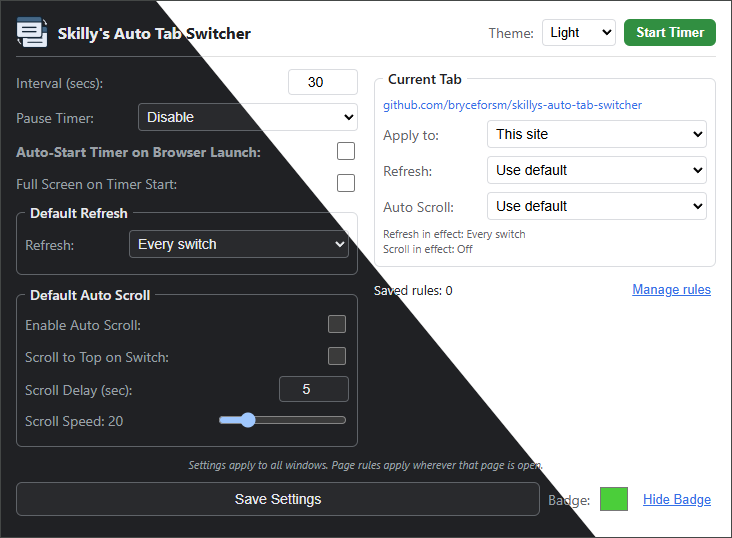
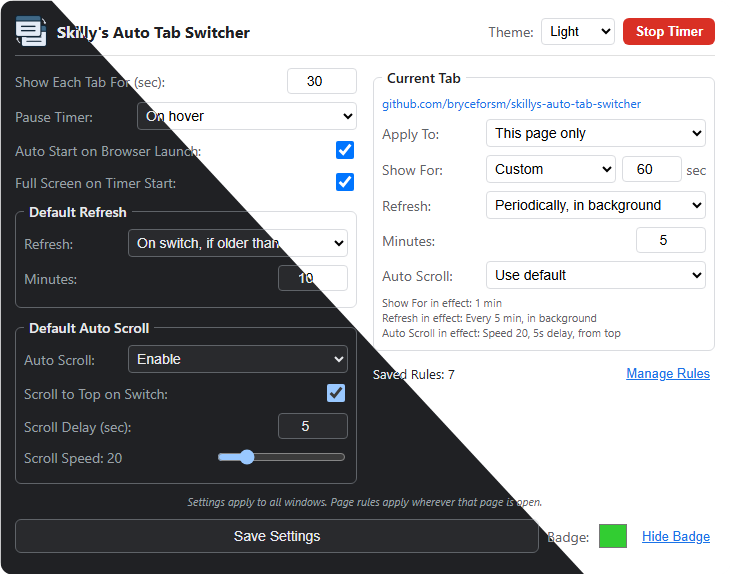
Add screenshot generation script and update README for UI changes

diff --git a/.github/skills/store-screenshots/assets/mock.js b/.github/skills/store-screenshots/assets/mock.js
@@ -1,0 +1,54 @@
+// Stands in for the chrome.* APIs so the extension pages render with sample data outside the extension.
+(() => {
+    const params = new URLSearchParams(location.search);
+    const store = {
+        switchInterval: 30,
+        pauseMode: 'hover',
+        defaultRefresh: { mode: 'stale', minutes: 10 },
+        defaultScroll: { autoScroll: true, scrollToTop: true, scrollDelay: 5, scrollSpeed: 20 },
+        pageRules: {
+            'page:https://github.com/bryceforsm/skillys-auto-tab-switcher': { display: { seconds: 60 }, refresh: { mode: 'background', minutes: 5 } },
+            'host:grafana.example.com': { refresh: { mode: 'switch', minutes: 5 } },
+            'host:status.example.com': { display: { seconds: 15 }, scroll: { autoScroll: false, scrollToTop: false, scrollDelay: 5, scrollSpeed: 20 } },
+            'host:homeassistant.local:8123': { display: { seconds: 45 }, refresh: { mode: 'never', minutes: 5 } },
+            'page:https://en.wikipedia.org/wiki/Main_Page': { scroll: { autoScroll: true, scrollToTop: true, scrollDelay: 3, scrollSpeed: 35 } },
+            'host:www.example.com': { display: { seconds: 120 } },
+            'page:https://sales.example.com/reports/weekly': { display: { seconds: 90 }, refresh: { mode: 'stale', minutes: 30 } }
+        },
+        autoStart: true,
+        fullscreenOnStart: true,
+        badgeColor: '#32cd32',
+        badgeVisible: true,
+        theme: params.get('theme') || 'light'
+    };
+
+    window.chrome = {
+        storage: {
+            local: { get: async () => structuredClone(store), set: async () => {}, remove: async () => {}, clear: async () => {} },
+            onChanged: { addListener() {} }
+        },
+        windows: { getCurrent: async () => ({ id: 1 }) },
+        tabs: { query: async () => [{ id: 1, url: 'https://github.com/bryceforsm/skillys-auto-tab-switcher' }], create() {} },
+        runtime: { sendMessage: async () => ({ running: true }), openOptionsPage() {} }
+    };
+
+    document.addEventListener('DOMContentLoaded', () => {
+        // Centres the popup on a backdrop for the 1280x800 store screenshots.
+        if (params.get('frame')) {
+            const dark = store.theme === 'dark';
+            const style = document.createElement('style');
+            style.textContent = `
+                html { height: 100%; display: flex; align-items: center; justify-content: center;
+                       background: ${dark ? 'linear-gradient(135deg, #0f1115, #2a2d34)' : 'linear-gradient(135deg, #dfe7f5, #f5f7fb)'} !important; }
+                body { margin: 0 !important; border-radius: 12px; box-shadow: 0 12px 40px rgba(0, 0, 0, ${dark ? 0.6 : 0.25}); }`;
+            document.head.append(style);
+        }
+        if (params.get('edit')) setTimeout(() => openEditor(params.get('edit')), 300);
+        // A magenta backdrop lets the script find where the popup ends in a tall screenshot.
+        if (params.get('measure')) {
+            const style = document.createElement('style');
+            style.textContent = 'html { background: #ff00ff !important; } body { margin: 0 !important; }';
+            document.head.append(style);
+        }
+    });
+})();

diff --git a/TabSwitcherExtension/shared.js b/TabSwitcherExtension/shared.js
@@ -4,7 +4,7 @@ const REFRESH_MODES = {
     never: 'Disable',
     switch: 'Every switch',
     stale: 'On switch, if older than',
-    background: 'Periodically, even in background'
+    background: 'Periodically, in background'
 };
 
 const PAUSE_MODES = ['disable', 'activity', 'hover'];
@@ -147,7 +147,7 @@ function describeDisplay(seconds) {
 function describeRefresh(rule) {
     switch (rule.mode) {
         case 'stale': return `On switch, if older than ${rule.minutes} min`;
-        case 'background': return `Every ${rule.minutes} min, even in background`;
+        case 'background': return `Every ${rule.minutes} min, in background`;
         default: return REFRESH_MODES[rule.mode];
     }
 }

diff --git a/.github/skills/store-screenshots/SKILL.md b/.github/skills/store-screenshots/SKILL.md
@@ -1,0 +1,38 @@
+---
+name: store-screenshots
+description: 'Regenerate the README image and Chrome Web Store screenshots of the popup and rules page. Use when UI, labels or layout change, or when asked to take, refresh or update screenshots, store images or the README picture.'
+---
+
+# Store and README Screenshots
+
+Renders the real `popup.html` and `rules.html` with sample data in headless Edge (or Chrome) and writes every image the repo uses. Nothing in `TabSwitcherExtension/` is modified.
+
+## Procedure
+
+1. From the repo root, run [the script](./scripts/Take-Screenshots.ps1):
+   ```powershell
+   & '.\.github\skills\store-screenshots\scripts\Take-Screenshots.ps1'
+   ```
+2. View every output and check for cut-off text in dropdowns, wrapped labels or overlapping rows:
+
+   | File | Use |
+   |---|---|
+   | `Misc/screenshot.png` | README image (popup, light and dark diagonal split, rounded corners on a transparent background) |
+   | `Misc/screenshot640x400.jpeg` | Small store screenshot |
+   | `Screenshot/popup-light.png`, `popup-dark.png` | 1280x800 store screenshots |
+   | `Screenshot/rules-light.png`, `rules-edit-dark.png` | 1280x800 store screenshots |
+
+3. If text is cut off, fix the UI (shorter label or wider control), then run the script again.
+
+## Changing what is shown
+
+- Settings, rules, the current tab URL and the theme come from [assets/mock.js](./assets/mock.js). Edit `store` there.
+- Query parameters understood by the mock: `theme=light|dark`, `frame=1` (centre the popup on a 1280x800 backdrop), `edit=<rule key>` (open the Edit Rule dialog), `measure=1` (magenta backdrop used to measure popup height).
+- To add a shot, add a `Save-Shot` line in the script.
+
+## Things that don't work (already tried)
+
+- The VS Code integrated browser only paints the visible part of the page, so it can't produce 1280x800 images.
+- `msedge --dump-dom` output isn't captured by PowerShell, so the popup height is measured from a screenshot instead.
+- `Start-Process` joins arguments with spaces, so paths with spaces (the repo is under `My Drive`) need embedded quotes. The script renders into a temp folder for that reason.
+- Changing only the `#hash` of a `file://` URL doesn't reload the page. Use query parameters.

diff --git a/README.md b/README.md
@@ -34,7 +34,7 @@ This extension automatically switches between your open tabs at an interval you 
         - **Disable:** never reload.
         - **Every switch:** reload each time the tab is shown.
         - **On switch, if older than N min:** reload when shown, but only if the page was last loaded more than N minutes ago.
-        - **Periodically, even in background:** reload hidden tabs every N minutes so they are ready when shown, and on switch if the page is older than N minutes.
+        - **Periodically, in background:** reload hidden tabs every N minutes so they are ready when shown, and on switch if the page is older than N minutes.
     - **Default Auto Scroll** applies to pages without their own scroll rule:
         - Set **Auto Scroll** to **Enable** to start scrolling automatically.
         - Toggle **Scroll to Top on Switch** to reset scroll position when switching tabs.

diff --git a/.github/copilot-instructions.md b/.github/copilot-instructions.md
@@ -34,6 +34,7 @@ Settings live in `chrome.storage.local`, and every reader goes through `normaliz
 - To check layout, open `popup.html` or `rules.html` via `file://` in the integrated browser. `chrome.*` is undefined there, so init throws and every section stays expanded (worst case for height).
 - For real testing, load the folder unpacked at `chrome://extensions` and reload it after changes.
 - Package with `.\Build-Package.ps1`. The zip name comes from today's date and the `version` in `manifest.json`, and `*.zip` is gitignored.
+- After UI or label changes, regenerate the README and store images with the `store-screenshots` skill (`.github/skills/store-screenshots/`) and check them for cut-off text.
 
 ## Conventions
 
